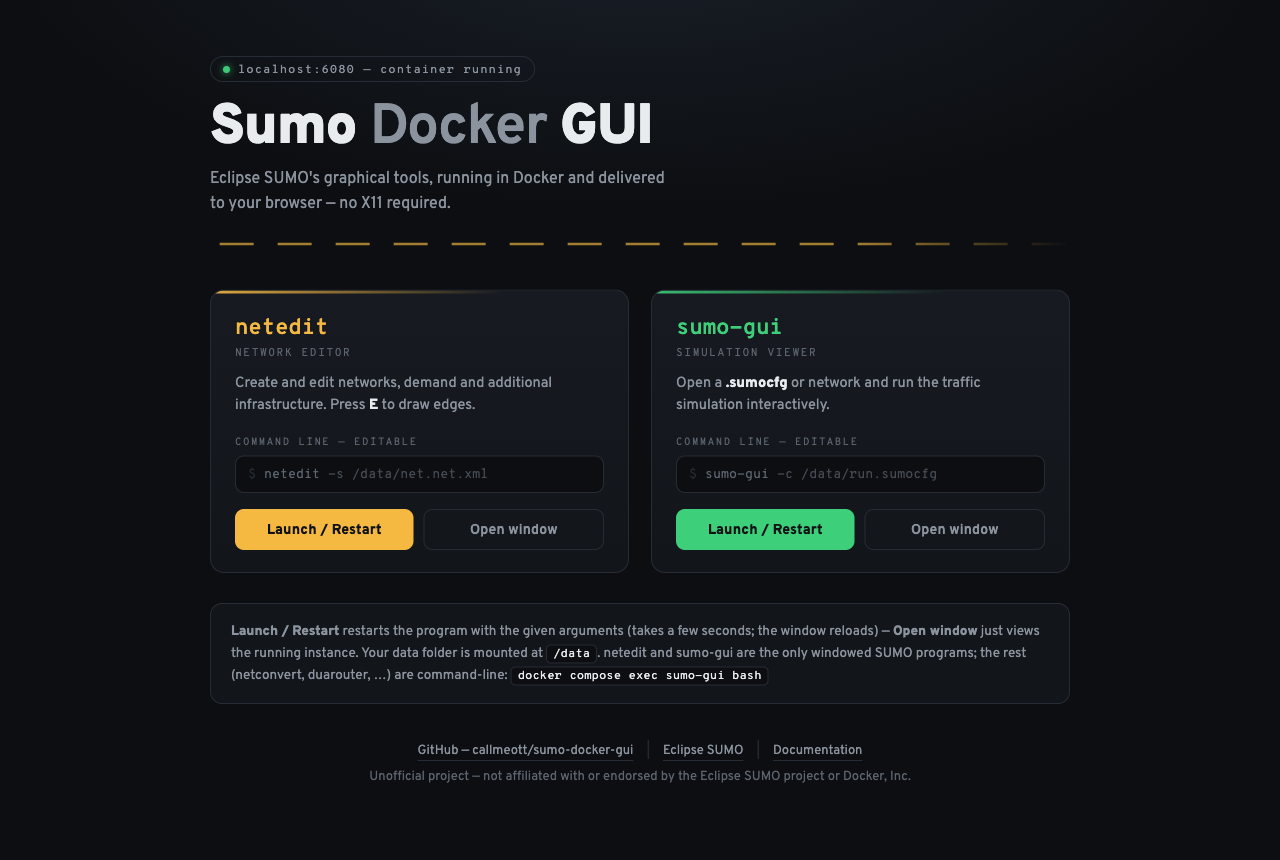
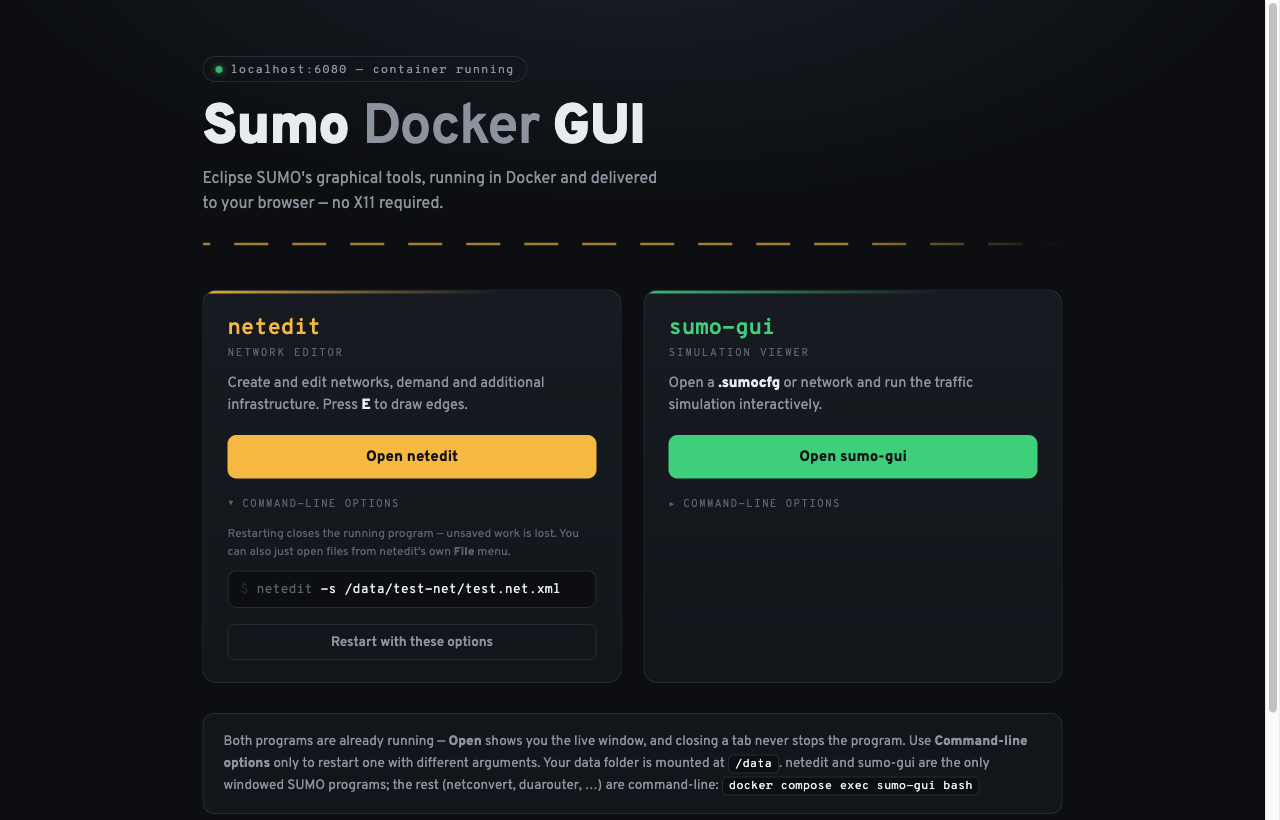
Make Open the primary action; demote the command line to a disclosure
Opening the already-running program is the everyday action, while
Launch/Restart is occasional and destructive (it discards unsaved work),
so the visual weight was backwards. Now each card has a prominent
'Open <app>' button, with the command line tucked into a collapsed
'Command-line options' section that auto-expands when arguments are set.
README documents auto-start, the two buttons, and token/argument reset
behaviour across stop/start vs down/up.

diff --git a/web/index.html b/web/index.html
@@ -178,31 +178,49 @@
   }
   .cmdline input::placeholder { color: var(--text-faint); opacity: 0.7; }
 
-  .buttons { display: flex; gap: 10px; }
-  button, a.open {
-    flex: 1;
-    font-family: var(--sans); font-weight: 800; font-size: 14px;
-    letter-spacing: 0.01em;
-    padding: 11px 0 10px;
-    border-radius: 9px;
-    text-align: center; text-decoration: none;
-    cursor: pointer;
-    transition: transform 0.12s, box-shadow 0.2s, background 0.15s, border-color 0.15s;
-  }
-  button {
-    border: none;
+  /* primary action: view the already-running program */
+  a.open {
+    display: block;
     background: var(--accent);
     color: #101215;
+    font-family: var(--sans); font-weight: 800; font-size: 15px;
+    padding: 13px 0 12px;
+    border-radius: 9px;
+    text-align: center; text-decoration: none;
+    transition: transform 0.12s, box-shadow 0.2s;
   }
-  button:hover { box-shadow: 0 6px 20px -6px var(--accent); transform: translateY(-1px); }
-  button:active { transform: translateY(0); }
-  a.open {
+  a.open:hover { box-shadow: 0 8px 24px -8px var(--accent); transform: translateY(-1px); }
+  a.open:active { transform: translateY(0); }
+
+  /* secondary: the command line, tucked into a disclosure */
+  details { margin-top: 14px; }
+  summary {
+    list-style: none; cursor: pointer;
+    font-family: var(--mono); font-size: 11px; letter-spacing: 0.1em;
+    text-transform: uppercase; color: var(--text-faint);
+    padding: 4px 0;
+    transition: color 0.15s;
+  }
+  summary::-webkit-details-marker { display: none; }
+  summary::before { content: "▸"; display: inline-block; margin-right: 7px; transition: transform 0.15s; }
+  details[open] summary::before { transform: rotate(90deg); }
+  summary:hover { color: var(--text-dim); }
+  details[open] summary { margin-bottom: 10px; }
+
+  button {
+    width: 100%;
+    font-family: var(--sans); font-weight: 600; font-size: 13.5px;
+    padding: 9px 0 8px;
+    border-radius: 8px;
     border: 1px solid var(--card-edge);
-    color: var(--text-dim);
     background: transparent;
-    font-weight: 600;
+    color: var(--text-dim);
+    cursor: pointer;
+    transition: border-color 0.15s, color 0.15s;
   }
-  a.open:hover { border-color: var(--accent); color: var(--accent); }
+  button:hover { border-color: var(--accent); color: var(--accent); }
+  button:disabled { opacity: 0.6; cursor: default; }
+  .hint { margin: 0 0 10px; font-size: 12px; color: var(--text-faint); line-height: 1.5; }
 
   /* ---------- notes ---------- */
   .notes {
@@ -258,15 +276,18 @@
       <span class="role">Network editor</span>
       <p class="desc">Create and edit networks, demand and additional
          infrastructure. Press <b>E</b> to draw edges.</p>
+      <a class="open" id="netedit-open" href="#">Open netedit</a>
       <form method="POST" action="/launch">
         <input type="hidden" name="app" value="netedit">
-        <label for="netedit-args">Command line &mdash; editable</label>
-        <div class="cmdline"><span class="prog">netedit</span>
-          <input id="netedit-args" name="args" placeholder="-s /data/net.net.xml" autocomplete="off" spellcheck="false"></div>
-        <div class="buttons">
-          <button type="submit">Launch / Restart</button>
-          <a class="open" id="netedit-open" href="#">Open window</a>
-        </div>
+        <details id="netedit-details">
+          <summary>Command-line options</summary>
+          <p class="hint">Restarting closes the running program &mdash; unsaved
+             work is lost. You can also just open files from netedit's own
+             <b>File</b> menu.</p>
+          <div class="cmdline"><span class="prog">netedit</span>
+            <input id="netedit-args" name="args" placeholder="-s /data/net.net.xml" autocomplete="off" spellcheck="false"></div>
+          <button type="submit">Restart with these options</button>
+        </details>
       </form>
     </div>
 
@@ -275,23 +296,27 @@
       <span class="role">Simulation viewer</span>
       <p class="desc">Open a <b>.sumocfg</b> or network and run the traffic
          simulation interactively.</p>
+      <a class="open" id="sumo-gui-open" href="#">Open sumo-gui</a>
       <form method="POST" action="/launch">
         <input type="hidden" name="app" value="sumo-gui">
-        <label for="sumo-gui-args">Command line &mdash; editable</label>
-        <div class="cmdline"><span class="prog">sumo-gui</span>
-          <input id="sumo-gui-args" name="args" placeholder="-c /data/run.sumocfg" autocomplete="off" spellcheck="false"></div>
-        <div class="buttons">
-          <button type="submit">Launch / Restart</button>
-          <a class="open" id="sumo-gui-open" href="#">Open window</a>
-        </div>
+        <details id="sumo-gui-details">
+          <summary>Command-line options</summary>
+          <p class="hint">Restarting closes the running program &mdash; unsaved
+             work is lost. You can also just open files from sumo-gui's own
+             <b>File</b> menu.</p>
+          <div class="cmdline"><span class="prog">sumo-gui</span>
+            <input id="sumo-gui-args" name="args" placeholder="-c /data/run.sumocfg" autocomplete="off" spellcheck="false"></div>
+          <button type="submit">Restart with these options</button>
+        </details>
       </form>
     </div>
   </div>
 
   <div class="notes">
-    <b>Launch / Restart</b> restarts the program with the given arguments
-    (takes a few seconds; the window reloads) &mdash; <b>Open window</b> just views
-    the running instance. Your data folder is mounted at <code>/data</code>.
+    Both programs are already running &mdash; <b>Open</b> shows you the live
+    window, and closing a tab never stops the program. Use
+    <b>Command-line options</b> only to restart one with different arguments.
+    Your data folder is mounted at <code>/data</code>.
     netedit and sumo-gui are the only windowed SUMO programs; the rest
     (netconvert, duarouter, &hellip;) are command-line:
     <code>docker compose exec sumo-gui bash</code>
@@ -316,6 +341,8 @@
       Object.keys(s).forEach(function (app) {
         document.getElementById(app + '-args').value = s[app].args || '';
         document.getElementById(app + '-open').href = s[app].url;
+        // reveal the options if this program was started with arguments
+        if (s[app].args) document.getElementById(app + '-details').open = true;
       });
     });
   }
@@ -328,7 +355,7 @@
       ev.preventDefault();
       var button = form.querySelector('button');
       button.disabled = true;
-      button.textContent = 'Launching…';
+      button.textContent = 'Restarting…';
       fetch('/launch', {
         method: 'POST',
         headers: { 'Content-Type': 'application/x-www-form-urlencoded',
@@ -338,7 +365,7 @@
         .then(function (res) { window.location = res.url; })
         .catch(function () {
           button.disabled = false;
-          button.textContent = 'Launch / Restart';
+          button.textContent = 'Restart with these options';
           alert('Launch failed — is the container still running?');
         });
     });

diff --git a/README.md b/README.md
@@ -211,12 +211,26 @@ directly to its own port, so none of them can be dropped. The raw VNC ports
 (`5901`/`5902`, x11vnc) are intentionally **not** published: they exist only
 inside the container, behind websockify's token check.
 
-### Launch / Restart vs. Open window
+### What happens on restart, and the two buttons
+
+**Both programs start automatically** when the container starts — there is
+always something running to look at. That shapes the two buttons:
 
 | Button | What it does | When to use it |
 | --- | --- | --- |
-| **Launch / Restart** | Saves the command-line box, **stops the running program and starts it again** with those arguments, then opens the viewer tab | Opening a file from the launch page, or changing arguments — note it discards unsaved work in that program |
-| **Open window** | Just opens the viewer tab of the **already-running** program — the command-line box is ignored, nothing restarts | Getting back to a session (e.g. after closing the tab); the tab and the program are independent — closing a tab never stops the program |
+| **Open netedit / Open sumo-gui** | Opens the viewer tab of the **already-running** program. Nothing restarts | Almost always. The tab and the program are independent — closing a tab never stops the program |
+| **Command-line options → Restart with these options** | Saves the command line, **stops the program and starts it again** with those arguments | Only to change arguments — it discards unsaved work. You can also just open files from the program's own **File** menu |
+
+After a restart, note:
+
+| You run | Command-line arguments | Viewer links |
+| --- | --- | --- |
+| `docker compose stop` → `start` | **Kept** (same container) | **Change** — tokens are regenerated |
+| `docker compose down` → `up` | **Reset** (new container) | **Change** — tokens are regenerated |
+
+Because the session tokens are regenerated on every start, old viewer URLs
+stop working. Bookmark the launch page (<http://localhost:6080>), not the
+viewer tabs — it always hands out current links.
 
 ## Configuration
 
